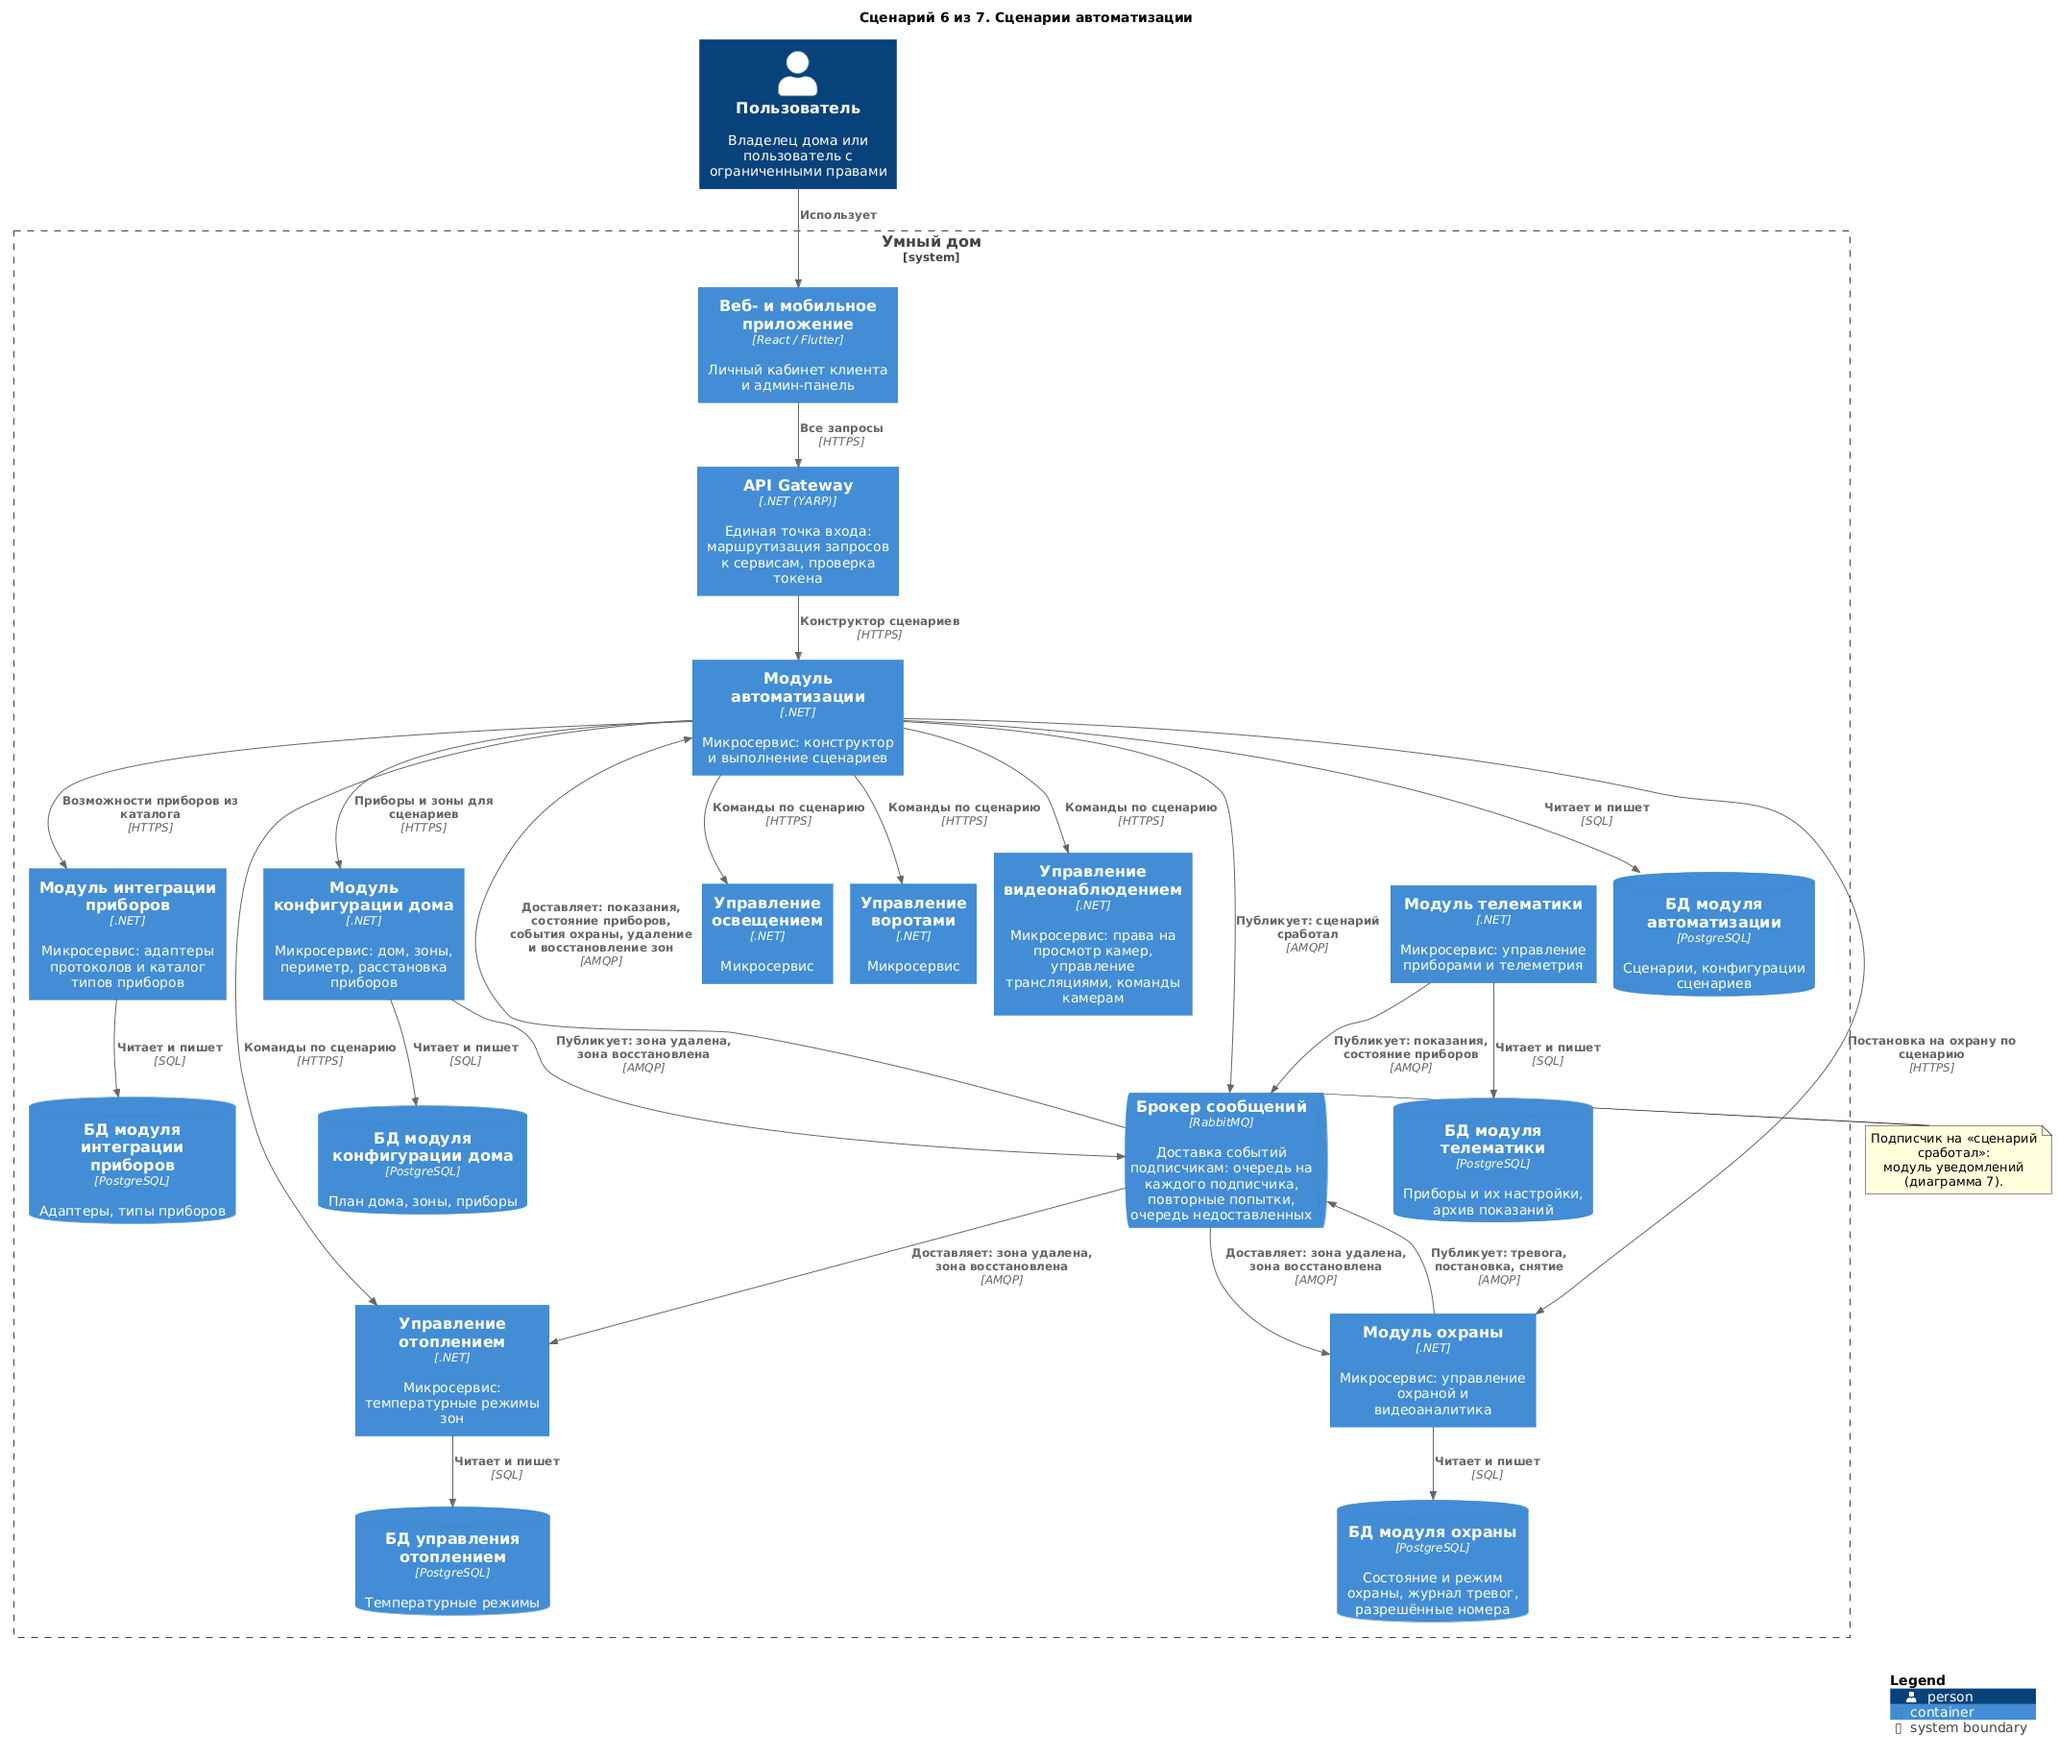
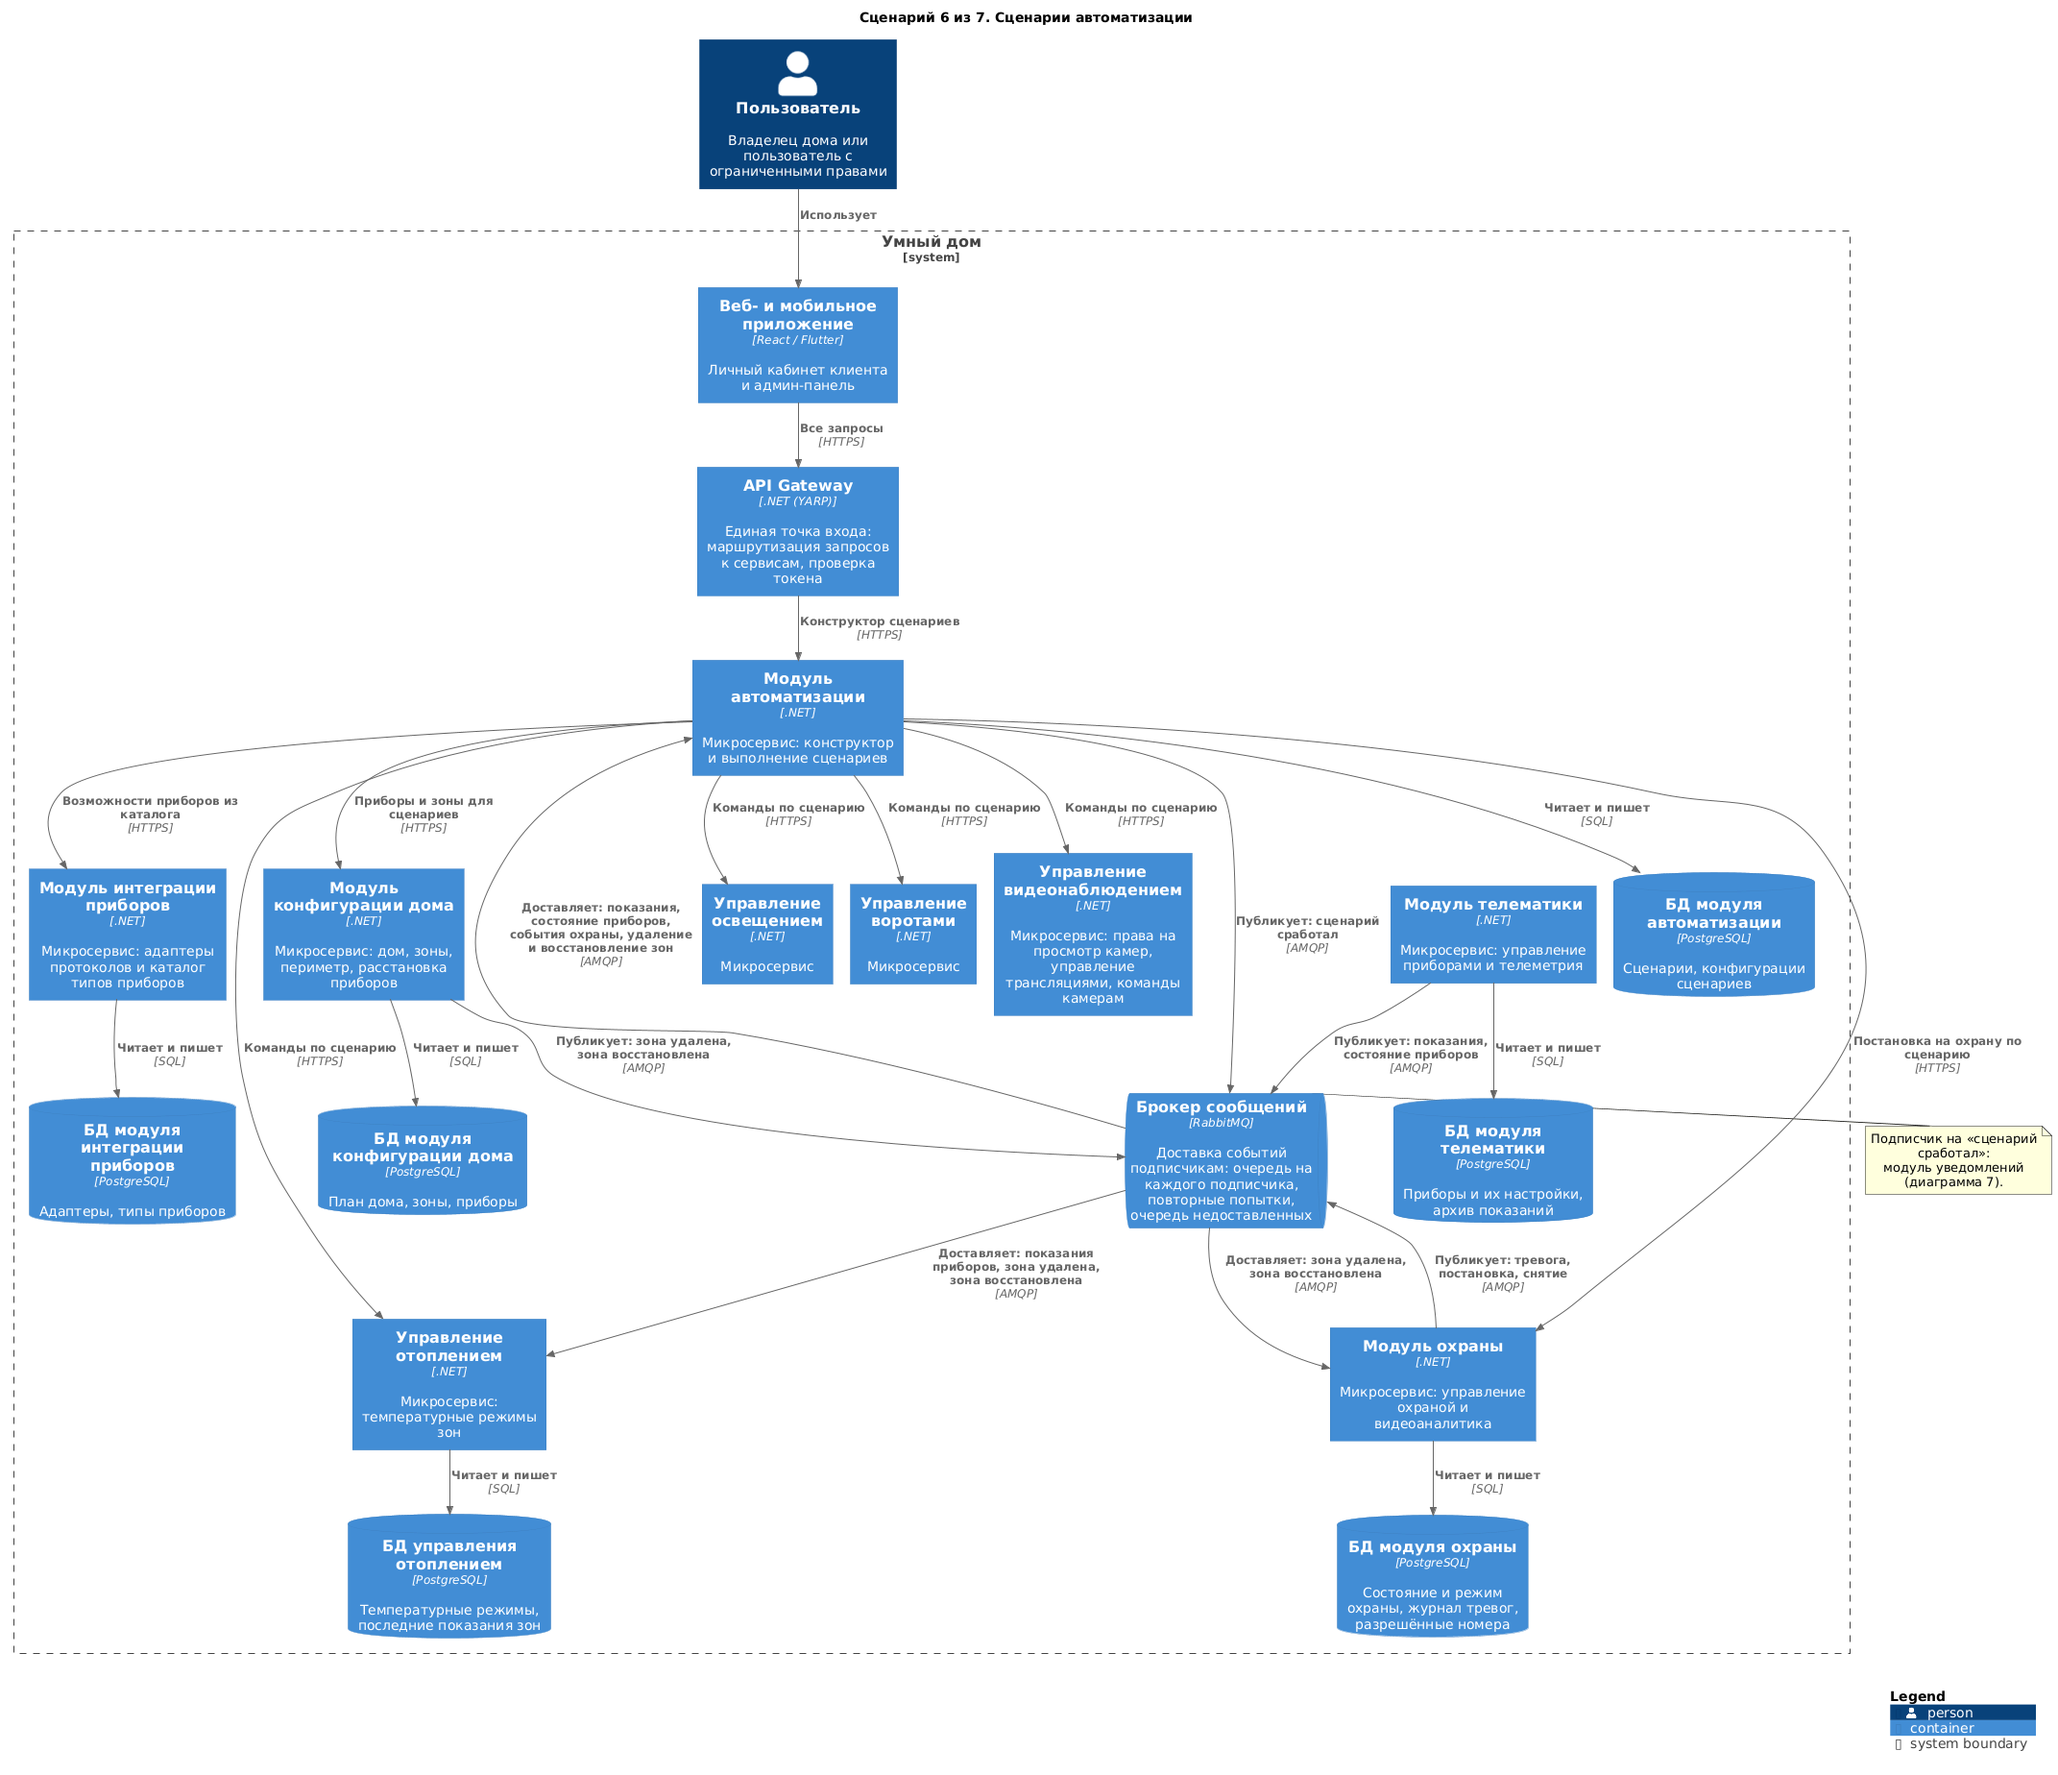
C4: компоненты управления отоплением, показания через брокер, расписание в автоматизации

diff --git a/README.md b/README.md
@@ -55,8 +55,11 @@
 
 - Управление отоплением [supporting]
     - Контекст: Настройка температурного режима (бизнес-цель для зоны
-      на плане, например «в гостиной 22 °C», «эко-режим ночью»;
-      отопление само решает, какими командами каким приборам её достичь)
+      на плане, например «в гостиной 22 °C», «эко-режим»;
+      отопление само решает, какими командами каким приборам её достичь:
+      получает показания приборов через брокер и сразу пересчитывает
+      при смене цели; переключение режимов по расписанию, например
+      «эко-режим ночью», задаётся сценарием в «Автоматизации»)
 
 - Управление освещением [supporting]
     - Контекст: Управление освещением
@@ -314,7 +317,7 @@
 | 3 | Модуль конфигурации дома | Дом, зоны, периметр, расстановка приборов | БД модуля конфигурации дома | [готова](diagrams/components/house-configurator.puml) |
 | 4 | Модуль телематики | Управление приборами и телеметрия | БД модуля телематики | [готова](diagrams/components/telematics.puml) |
 | 5 | Модуль интеграции приборов | Адаптеры протоколов и каталог типов приборов | БД модуля интеграции приборов | [готова](diagrams/components/device-integration.puml) |
-| 6 | Управление отоплением | Температурные режимы зон | БД управления отоплением | — |
+| 6 | Управление отоплением | Температурные режимы зон | БД управления отоплением | [готова](diagrams/components/heating.puml) |
 | 7 | Управление освещением | Управление светом | нет | [готова](diagrams/components/lighting-gate.puml) |
 | 8 | Управление воротами | Управление воротами | нет | [готова](diagrams/components/lighting-gate.puml) |
 | 9 | Управление видеонаблюдением | Права на просмотр камер, управление трансляциями, команды камерам | нет | — |
@@ -357,6 +360,12 @@
     ![Компоненты: Модуль интеграции приборов](diagrams/components/device-integration.png)
 
     Исходник: [device-integration.puml](diagrams/components/device-integration.puml)
+
+7. Управление отоплением
+
+    ![Компоненты: Управление отоплением](diagrams/components/heating.png)
+
+    Исходник: [heating.puml](diagrams/components/heating.puml)
 
 **Диаграмма кода (Code)**
 
